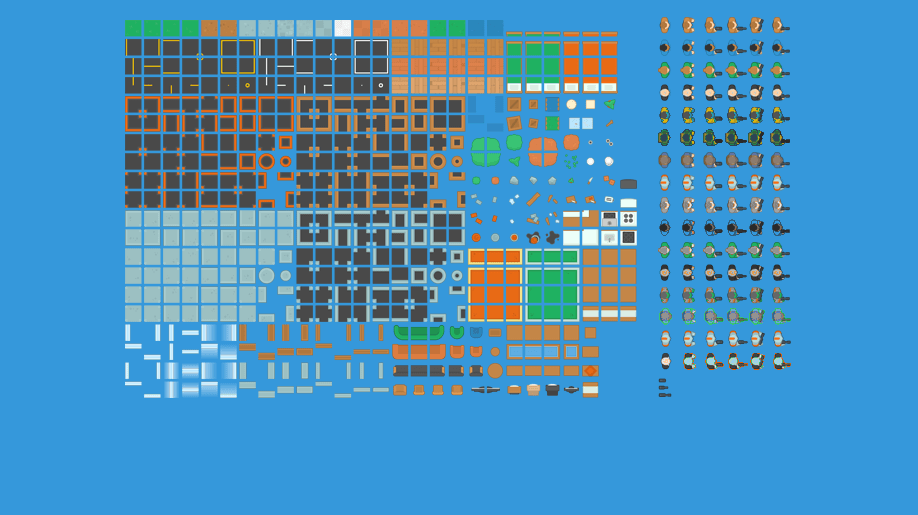
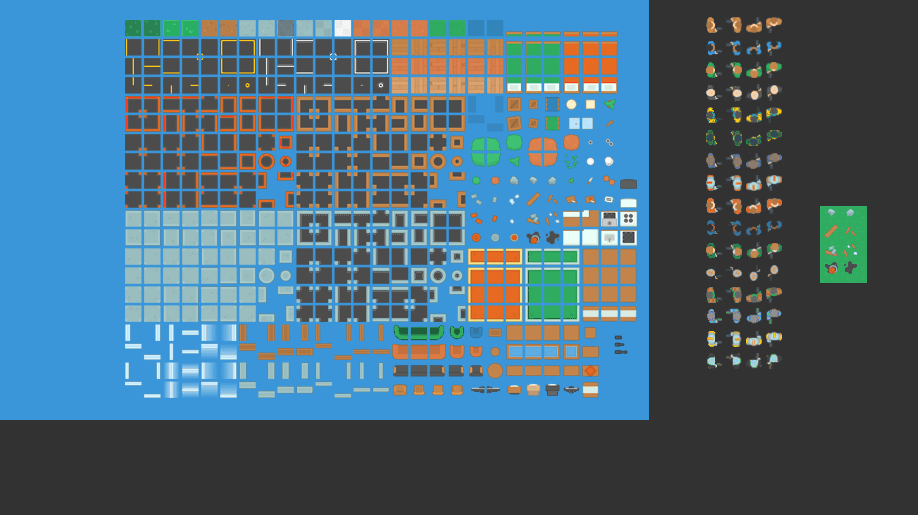
Sprites final (presque)

diff --git a/game-screen/scenes/GameScene.js b/game-screen/scenes/GameScene.js
@@ -1,3 +1,33 @@
+const TILE_TYPE = {
+    BASIC: 0, 
+    WALL: 1,
+    DESTRUCTIBLE: 2, 
+    SPAWN: 4
+};
+
+const TILE_SIZE = 16;
+const SRC_SIZE = 16;
+const TILE_MAP = {
+    WALL: { x: 278, y: 20 },
+    DESTRUCTIBLE: { x: 392, y: 77 },
+    SPAWN: { x: 240, y: 153 },
+    FLOORS: [
+        { x: 125, y: 20 },
+        { x: 144, y: 20 },
+        { x: 163, y: 20 },
+        { x: 182, y: 20 }
+    ]
+};
+
+const CHAR_X = 706;
+const CHAR_START_Y = 17;
+const CHAR_SPACING_VERTICAL = 23;
+const CHAR_SPACING_HORIZONTAL = 20;
+
+const PROP_START_X = 824;
+const PROP_START_Y = 206;
+const PROP_SPACING = 18;
+
 export class GameScene extends Phaser.Scene {
     constructor() {
         super("GameScene");
@@ -21,19 +51,24 @@ export class GameScene extends Phaser.Scene {
         this.victoryWinnerText = null;
         this.victorySubtitleText = null;
         this.victoryRays = [];
+
+        this.propLayout = [];
     }
 
     preload() {
         if (!this.textures.exists("mountain-bg")) {
             this.load.image("mountain-bg", "assets/mountain-bg.jpg");
         }
+        this.load.image("mainAssets", "assets/mainAssets.png");
     }
 
     create() {
         this.mapGraphics = this.add.graphics();
-        this.createStatusText();
+//        this.createStatusText();
         this.setupFixedCamera();
         this.connectToServer();
+        this.canvasTexture = this.textures.createCanvas('mapCanvas', this.worldWidth, this.worldHeight);
+        this.add.image(0, 0, 'mapCanvas').setOrigin(0);
     }
 
     update() {
@@ -125,39 +160,92 @@ export class GameScene extends Phaser.Scene {
             const playerCount = playerEntries.length;
             this.setStatus(`Screen connected.\nPlayers: ${playerCount}\nOpen /controller on phone.`);
         }
-    }
+    }        
 
-    drawMap() {
-        if (!this.mapGraphics) {
-            return;
+    drawMap()
+    {
+        if (!this.canvasTexture || !this.level.length) return;
+
+        if (this.propLayout.length === 0) {
+            this.propLayout = this.level.map(row => row.map(() => {
+                return Math.random() > 0.1 ? -1 : Math.floor(Math.random() * 8);
+            }));
         }
 
-        const graphics = this.mapGraphics;
-        graphics.clear();
+        const ctx = this.canvasTexture.context;
+        const tilesetImg = this.textures.get('mainAssets').getSourceImage();
 
-        graphics.fillStyle(0x161616, 1);
-        graphics.fillRect(0, 0, this.worldWidth, this.worldHeight);
+        ctx.fillStyle = '#161616';
+        ctx.fillRect(0, 0, this.worldWidth, this.worldHeight);
 
-        for (let row = 0; row < this.mapRows; row += 1) {
-            for (let col = 0; col < this.mapCols; col += 1) {
-                const x = col * this.tileSize;
-                const y = row * this.tileSize;
+        let charIndex = 0;
 
-                if (this.level[row][col] === 1) {
-                    graphics.fillStyle(0x6666ff, 1);
-                    graphics.fillRect(x, y, this.tileSize, this.tileSize);
-                } else if (this.level[row][col] === 4) {
-                    graphics.fillStyle(0x000000, 1);
-                    graphics.fillRect(x, y, this.tileSize, this.tileSize);
-                } else if (this.level[row][col] === 2) {
-                    graphics.fillStyle(0x996633, 1);
-                    graphics.fillRect(x, y, this.tileSize, this.tileSize);
+        for (let row = 0; row < this.mapRows; row++) {
+            for (let col = 0; col < this.mapCols; col++) {
+                const dx = col * this.tileSize;
+                const dy = row * this.tileSize;
+                const tileType = this.level[row][col];
+
+                let groundSource;
+                let floorIndex;
+                
+                if (tileType === TILE_TYPE.WALL) {
+                    groundSource = TILE_MAP.WALL;
+                } else if (tileType === TILE_TYPE.DESTRUCTIBLE) {
+                    groundSource = TILE_MAP.DESTRUCTIBLE;
+                } else if (tileType === TILE_TYPE.SPAWN) {
+                    groundSource = TILE_MAP.SPAWN;
+                } else {
+                    if ( (row+col) % 2 == 0 ) {
+                        floorIndex = (row % 2 == 0) ? 0 : 1;
+                    } else {
+                        floorIndex = (row % 2 == 0) ? 2 : 3;
+                    }
+                    groundSource = TILE_MAP.FLOORS[floorIndex];
                 }
 
-                graphics.lineStyle(1, 0x333333, 1);
-                graphics.strokeRect(x, y, this.tileSize, this.tileSize);
+                ctx.drawImage(
+                    tilesetImg,
+                    groundSource.x, groundSource.y, TILE_SIZE, TILE_SIZE,
+                    dx, dy, this.tileSize, this.tileSize
+                );
+
+                /*
+                if (tileType === TILE_TYPE.BASIC) {
+                    const propIdx = this.propLayout[row] ? this.propLayout[row][col] : -1;
+                    if (propIdx !== -1) {
+                        const propCol = Math.floor(propIdx / 4);
+                        const propRow = propIdx % 4;
+                        const px = PROP_START_X + (propCol * PROP_SPACING);
+                        const py = PROP_START_Y + (propRow * PROP_SPACING);
+
+                        ctx.drawImage(
+                            tilesetImg, 
+                            px, py, SRC_SIZE, SRC_SIZE, 
+                            dx, dy, this.tileSize, this.tileSize
+                        );
+                    }
+                }
+
+                /*
+                // --- LAYER 3: CHARACTERS (OVERLAY) ---
+                // Only draw characters if it's a SPAWN tile
+                if (tileType === TILE_TYPE.SPAWN) {
+                    const cx = CHAR_X;
+                    const cy = CHAR_START_Y + (charIndex * CHAR_SPACING_VERTICAL);
+                    charIndex += 1;
+
+                    ctx.drawImage(
+                        tilesetImg, 
+                        cx, cy, SRC_SIZE, SRC_SIZE, 
+                        dx, dy, this.tileSize, this.tileSize
+                    );
+                }
+                */
             }
         }
+
+        this.canvasTexture.refresh();
     }
 
     setupFixedCamera() {
